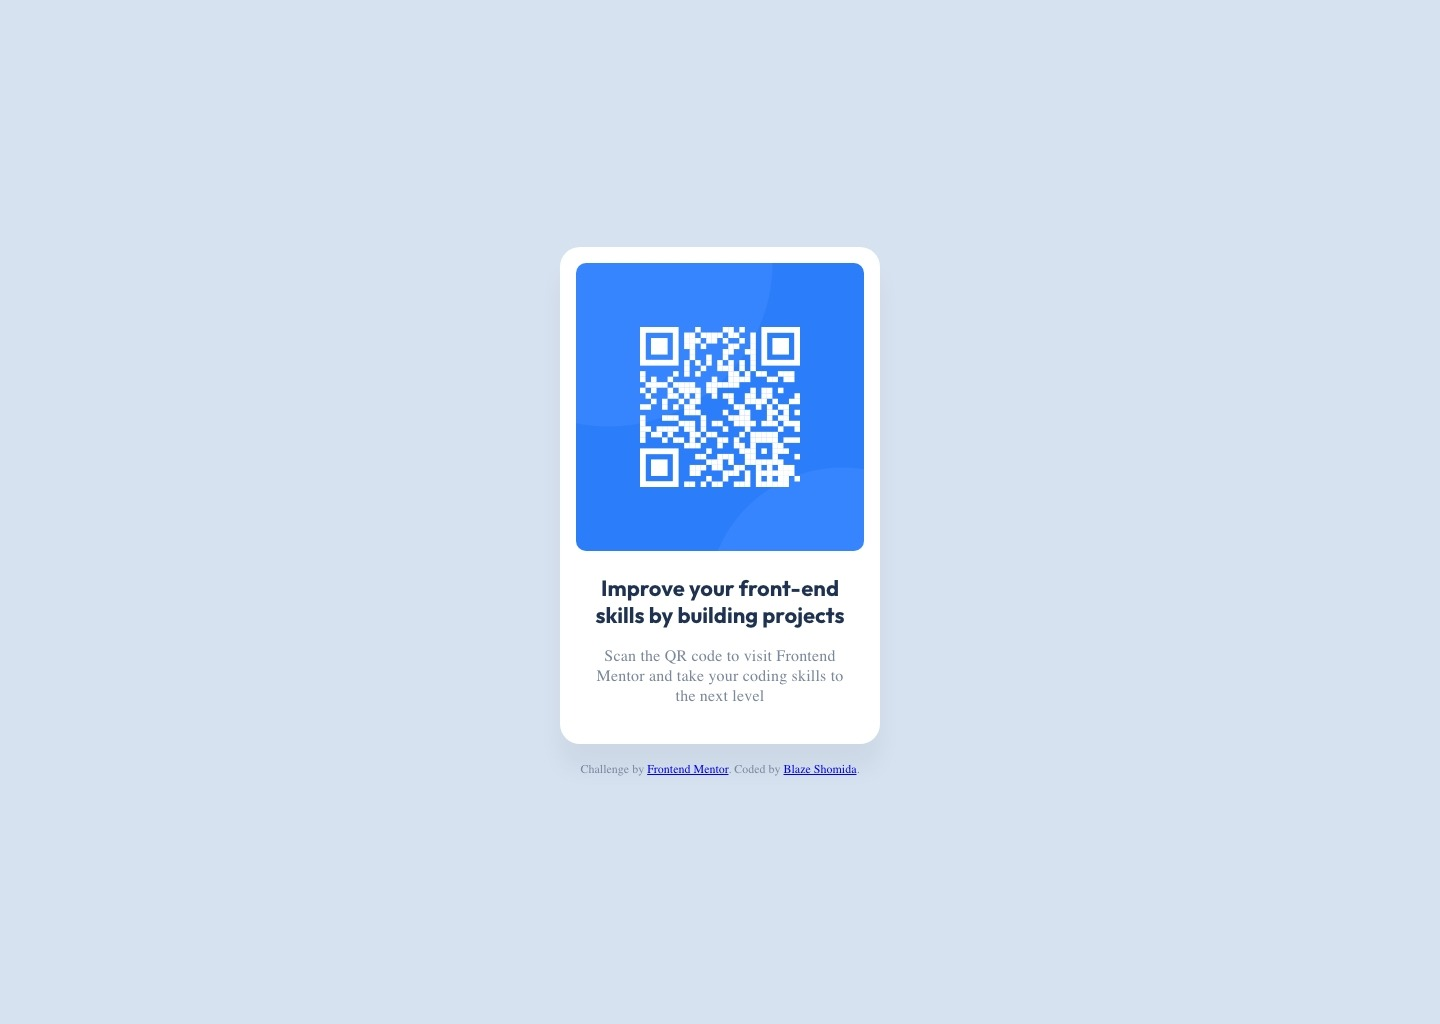
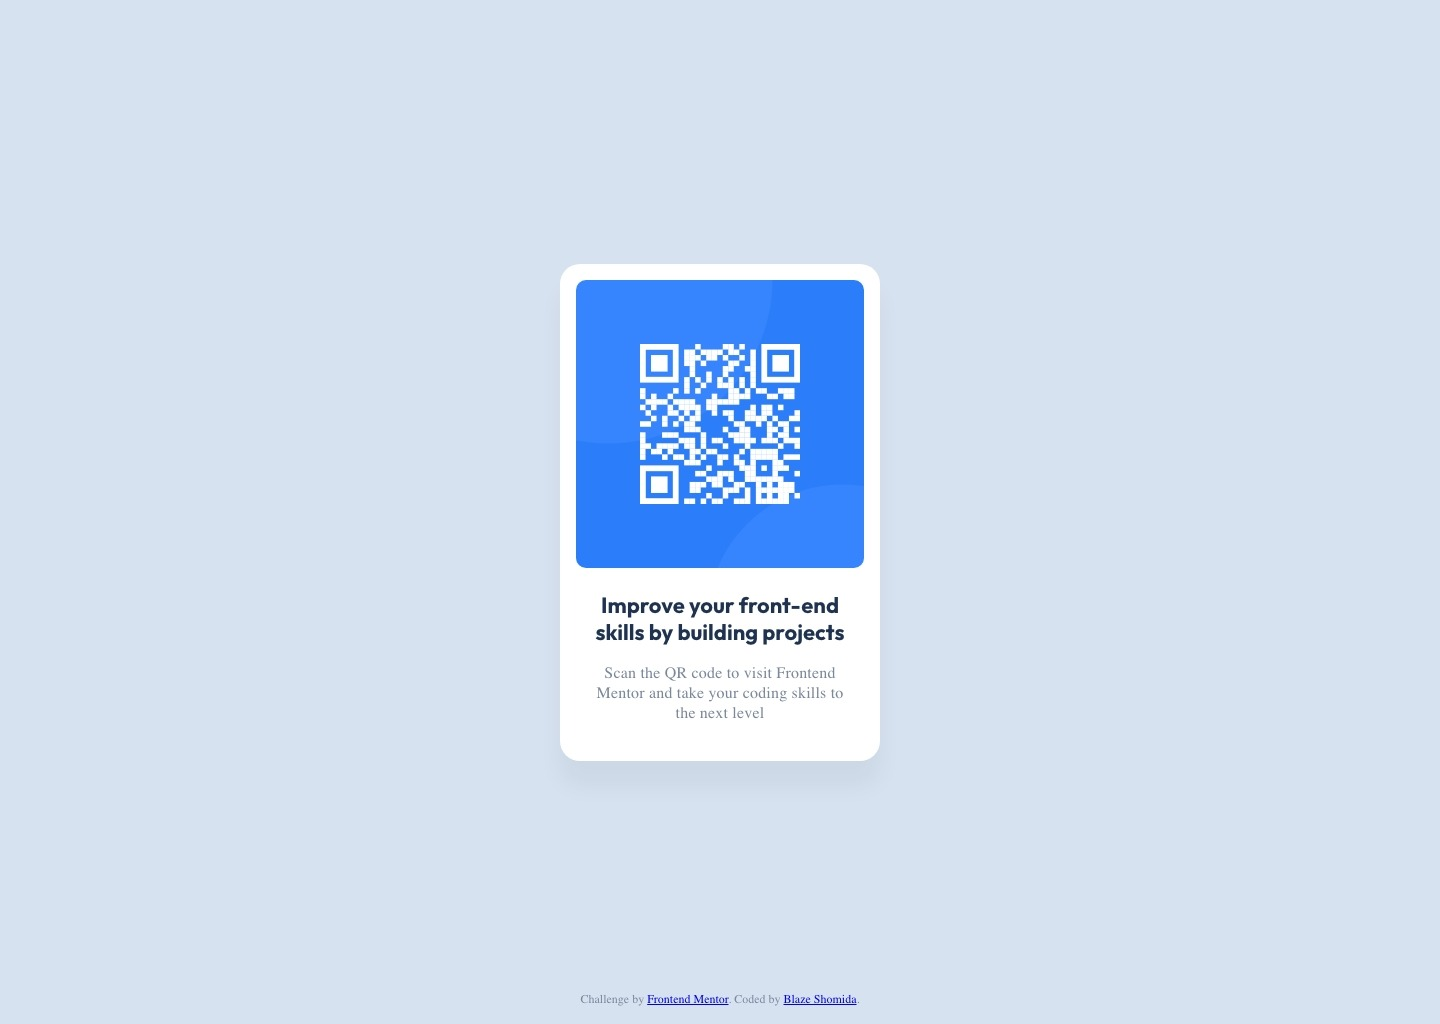
CSS and Screenshot updates
Updated CSS for card to use Grid instead of Flexbox, and moved attribution to the bottom of the page.

diff --git a/style.css b/style.css
@@ -87,8 +87,8 @@ body {
 /*  Custom Styles */
 .card {
     background-color: var(--clr-ntrl-white);
-    display: flex;
-    flex-direction: column;
+    display: grid;
+    grid-template-rows: auto 1fr;
     gap: 1.5rem;
     padding: 1rem;
     text-align: center;
@@ -110,6 +110,9 @@ body {
 }
 
 .attribution {
+    position: absolute;
+    bottom: 0;
+    padding: 1rem;;
     font-size: 0.75rem;
     color: var(--clr-text-secondary);
 }
